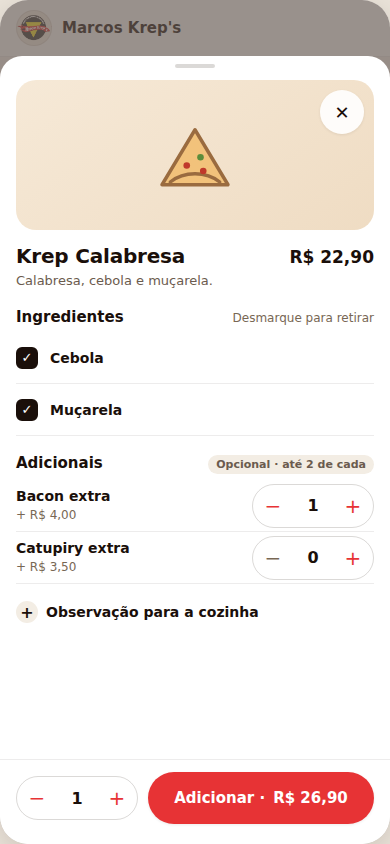
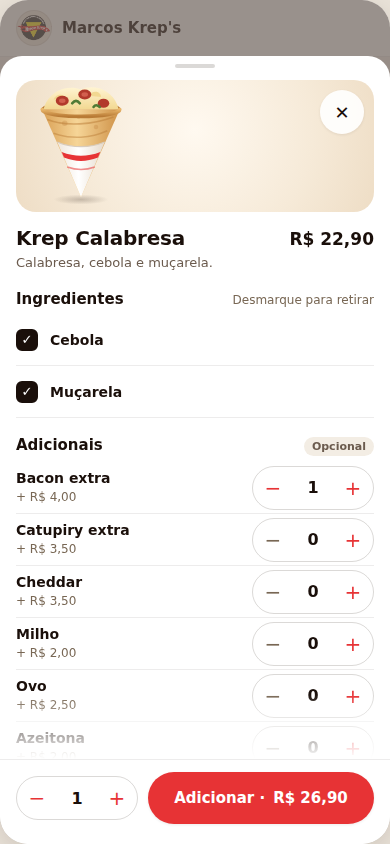
feat(pedir): WhatsApp sem avisos de obrigatoriedade; protótipo com adicionais sem limite e nova ilustração do krep (#235)

diff --git a/docs/evidence/issue-235/fase0/proposta.html b/docs/evidence/issue-235/fase0/proposta.html
@@ -70,8 +70,8 @@ p.doc{color:var(--text-secondary);font-size:13px;margin-bottom:24px;max-width:90
 .item .pr{margin-top:8px;font-size:15px}
 .thumb{width:104px;height:104px;border-radius:var(--r-md);flex:none;position:relative;background:var(--bg-subtle);display:grid;place-items:center;overflow:visible}
 .thumb img{width:100%;height:100%;object-fit:contain;border-radius:var(--r-md)}
-.fallback{background:linear-gradient(145deg,#F6E9D7,#EFDCC3)}
-.fallback svg{width:54px;height:54px;margin-top:10px}
+.fallback{background:radial-gradient(circle at 50% 38%,#FFF9F0 0%,#F6EAD8 60%,#EEDDC5 100%)}
+.fallback svg{position:absolute;left:-10px;top:-12px;width:124px;height:124px}
 .fallback small{position:absolute;top:8px;left:0;right:0;text-align:center;font-size:10px;font-weight:700;letter-spacing:.06em;text-transform:uppercase;color:#9A6B3F}
 .add{position:absolute;right:-6px;bottom:-6px;width:var(--tap);height:var(--tap);border-radius:50%;background:var(--bg-surface);border:1px solid var(--border-strong);box-shadow:var(--shadow-md);display:grid;place-items:center;color:var(--brand);font-size:24px;font-weight:600;line-height:1}
 .qtybadge{position:absolute;right:-6px;bottom:-6px;height:var(--tap);min-width:var(--tap);padding:0 12px;border-radius:var(--r-full);background:var(--brand);color:#fff;display:grid;place-items:center;font-weight:700;font-size:14px;box-shadow:var(--shadow-md)}
@@ -83,10 +83,10 @@ p.doc{color:var(--text-secondary);font-size:13px;margin-bottom:24px;max-width:90
 .dim{position:absolute;inset:0;background:rgba(30,16,8,.45)}
 .sheet{position:absolute;left:0;right:0;bottom:0;top:56px;background:var(--bg-surface);border-radius:22px 22px 0 0;display:flex;flex-direction:column;overflow:hidden}
 .grab{width:40px;height:4px;border-radius:4px;background:var(--border-strong);margin:8px auto 0}
-.hero{height:150px;margin:12px 16px 0;border-radius:var(--r-lg);display:grid;place-items:center;position:relative}
-.hero svg{width:88px;height:88px}
+.hero{height:132px;margin:12px 16px 0;border-radius:var(--r-lg);display:grid;place-items:center;position:relative}
+.hero svg{width:150px;height:150px;margin-top:-6px}
 .close{position:absolute;right:10px;top:10px;width:var(--tap);height:var(--tap);border-radius:50%;background:rgba(255,255,255,.9);display:grid;place-items:center;font-size:18px;box-shadow:var(--shadow-sm)}
-.sheet .body{padding:14px 16px;flex:1;overflow:hidden}
+.sheet .body{padding:14px 16px;flex:1;overflow:hidden;-webkit-mask-image:linear-gradient(#000 88%,transparent);mask-image:linear-gradient(#000 88%,transparent)}
 .grp{margin-top:18px}
 .grp-h{display:flex;justify-content:space-between;align-items:baseline;margin-bottom:6px}
 .grp-h b{font-size:15px}
@@ -174,9 +174,48 @@ p.doc{color:var(--text-secondary);font-size:13px;margin-bottom:24px;max-width:90
 <h1 class="doc">#235 · Proposta visual — cardápio e checkout público (Fase 0)</h1>
 <p class="doc">Protótipo ilustrativo para aprovação. Não é a página publicada nem código do produto. Dados sintéticos; kreps sem foto usam o fallback desenhado; bebidas usam as artes existentes do app. Valores, horários e status são exemplos — na implementação, vêm sempre do servidor e da configuração da filial.</p>
 
-<svg width="0" height="0" style="position:absolute">
-  <symbol id="crepe" viewBox="0 0 64 64"><path d="M8 50 L32 10 L56 50 Z" fill="#F2C27B" stroke="#9A6B3F" stroke-width="2.5" stroke-linejoin="round"/><path d="M14 48 C24 40 40 40 50 48" fill="none" stroke="#9A6B3F" stroke-width="2.5" stroke-linecap="round"/><circle cx="26" cy="36" r="2.4" fill="#C0392B"/><circle cx="36" cy="30" r="2.4" fill="#5B8C3A"/><circle cx="38" cy="40" r="2.4" fill="#C0392B"/></symbol>
-  <symbol id="crepe-sweet" viewBox="0 0 64 64"><path d="M8 50 L32 10 L56 50 Z" fill="#F2C27B" stroke="#9A6B3F" stroke-width="2.5" stroke-linejoin="round"/><path d="M14 48 C24 40 40 40 50 48" fill="none" stroke="#6B3A1E" stroke-width="3" stroke-linecap="round"/><path d="M22 38 C28 32 36 32 42 38" fill="none" stroke="#6B3A1E" stroke-width="3" stroke-linecap="round"/><circle cx="32" cy="27" r="3" fill="#E73335"/></symbol>
+<svg width="0" height="0" style="position:absolute" aria-hidden="true">
+  <defs>
+    <linearGradient id="g-crepe" x1="0" y1="0" x2="1" y2="0"><stop offset="0" stop-color="#D9A055"/><stop offset=".45" stop-color="#F6D597"/><stop offset="1" stop-color="#CE9147"/></linearGradient>
+    <linearGradient id="g-rim" x1="0" y1="0" x2="0" y2="1"><stop offset="0" stop-color="#E9B66A"/><stop offset="1" stop-color="#B97B36"/></linearGradient>
+    <linearGradient id="g-paper" x1="0" y1="0" x2="1" y2="0"><stop offset="0" stop-color="#EFE6DA"/><stop offset=".45" stop-color="#FFFFFF"/><stop offset="1" stop-color="#E6DACB"/></linearGradient>
+    <linearGradient id="g-choc" x1="0" y1="0" x2="0" y2="1"><stop offset="0" stop-color="#6A3418"/><stop offset="1" stop-color="#3B1A0B"/></linearGradient>
+    <linearGradient id="g-cheese" x1="0" y1="0" x2="0" y2="1"><stop offset="0" stop-color="#FFF4D2"/><stop offset="1" stop-color="#F2D891"/></linearGradient>
+    <radialGradient id="g-shadow" cx=".5" cy=".5" r=".5"><stop offset="0" stop-color="#1E1008" stop-opacity=".22"/><stop offset="1" stop-color="#1E1008" stop-opacity="0"/></radialGradient>
+  </defs>
+  <symbol id="cone" viewBox="0 0 120 120">
+    <ellipse cx="60" cy="110" rx="22" ry="4" fill="url(#g-shadow)"/>
+    <path d="M29 38 L60 108 L91 38 Z" fill="url(#g-crepe)"/>
+    <path d="M33 46 C48 52 70 50 86 44" fill="none" stroke="#B97B36" stroke-width="1.3" opacity=".5"/>
+    <path d="M38 57 C52 62 68 61 81 55" fill="none" stroke="#B97B36" stroke-width="1.2" opacity=".45"/>
+    <circle cx="47" cy="49" r="2.2" fill="#B97B36" opacity=".28"/><circle cx="72" cy="52" r="1.8" fill="#B97B36" opacity=".28"/><circle cx="58" cy="44" r="1.5" fill="#B97B36" opacity=".25"/>
+    <path d="M41 64 L60 108 L79 64 C67 69 53 69 41 64 Z" fill="url(#g-paper)"/>
+    <path d="M44.5 72 C55 76 65 76 75.5 72 L73.6 76.4 C64 80 56 80 46.4 76.4 Z" fill="#E73335"/>
+    <path d="M49 84 C56 86.5 64 86.5 71 84" fill="none" stroke="#E73335" stroke-width="1.2" opacity=".55"/>
+    <path d="M41 64 C53 69 67 69 79 64" fill="none" stroke="#D8CBBB" stroke-width="1"/>
+  </symbol>
+  <symbol id="crepe" viewBox="0 0 120 120">
+    <path d="M29 38 A31 5.5 0 0 1 91 38" fill="#C98A40" stroke="#B97B36" stroke-width="2"/>
+    <path d="M30 38 C34 22 50 18 60 22 C70 17 87 22 90 38 Z" fill="url(#g-cheese)"/>
+    <path d="M38 30 c2-5 9-5 10 0" fill="#F2D891"/><path d="M66 27 c3-5 10-4 10 1" fill="#F2D891"/>
+    <ellipse cx="45" cy="31" rx="5.2" ry="4" fill="#B23A2B"/><ellipse cx="45" cy="31" rx="2.6" ry="1.8" fill="#D2604E"/>
+    <ellipse cx="63" cy="26" rx="5.2" ry="4" fill="#B23A2B"/><ellipse cx="63" cy="26" rx="2.6" ry="1.8" fill="#D2604E"/>
+    <ellipse cx="78" cy="33" rx="4.6" ry="3.6" fill="#B23A2B"/>
+    <path d="M53 33 q3-4 6 0" stroke="#4F7A35" stroke-width="2.2" fill="none" stroke-linecap="round"/><path d="M70 36 q2-3 5 0" stroke="#4F7A35" stroke-width="2" fill="none" stroke-linecap="round"/>
+    <use href="#cone"/>
+    <path d="M29 38 A31 5.5 0 0 0 91 38" fill="none" stroke="url(#g-rim)" stroke-width="3" stroke-linecap="round"/>
+  </symbol>
+  <symbol id="crepe-sweet" viewBox="0 0 120 120">
+    <path d="M29 38 A31 5.5 0 0 1 91 38" fill="#C98A40" stroke="#B97B36" stroke-width="2"/>
+    <path d="M30 38 C33 24 47 19 60 23 C73 18 88 24 90 38 Z" fill="url(#g-choc)"/>
+    <g transform="translate(48 20) rotate(-18)"><path d="M0 9 C-7 3 -7 -5 0 -5 C7 -5 7 3 0 9 Z" fill="#DC2F3A"/><path d="M-4 -5 L-1 -8 L0 -5 L1 -8 L4 -5 Z" fill="#4F7A35"/><circle cx="-2.5" cy="-1" r=".7" fill="#FFE08A"/><circle cx="2" cy="0" r=".7" fill="#FFE08A"/><circle cx="-.5" cy="3.5" r=".7" fill="#FFE08A"/><circle cx="2.5" cy="-3" r=".6" fill="#FFE08A"/></g>
+    <g transform="translate(70 20) rotate(16)"><path d="M0 9 C-7 3 -7 -5 0 -5 C7 -5 7 3 0 9 Z" fill="#DC2F3A"/><path d="M-4 -5 L-1 -8 L0 -5 L1 -8 L4 -5 Z" fill="#4F7A35"/><circle cx="-2.5" cy="-1" r=".7" fill="#FFE08A"/><circle cx="2" cy="0" r=".7" fill="#FFE08A"/><circle cx="-.5" cy="3.5" r=".7" fill="#FFE08A"/><circle cx="2.5" cy="-3" r=".6" fill="#FFE08A"/></g>
+    <circle cx="55" cy="30" r="1.1" fill="#FFF"/><circle cx="74" cy="31" r="1.1" fill="#FFF"/><circle cx="40" cy="33" r="1.1" fill="#FFF"/><circle cx="62" cy="34" r="1.1" fill="#FFF"/>
+    <use href="#cone"/>
+    <path d="M33 42 C36 50 40 44 43 51 C46 57 49 47 52 52" fill="none" stroke="#3B1A0B" stroke-width="2.6" stroke-linecap="round"/>
+    <path d="M74 43 C77 51 81 45 84 50" fill="none" stroke="#3B1A0B" stroke-width="2.4" stroke-linecap="round"/>
+    <path d="M29 38 A31 5.5 0 0 0 91 38" fill="none" stroke="url(#g-rim)" stroke-width="3" stroke-linecap="round"/>
+  </symbol>
 </svg>
 
 <!-- ───────────── MOBILE ───────────── -->
@@ -199,9 +238,9 @@ p.doc{color:var(--text-secondary);font-size:13px;margin-bottom:24px;max-width:90
     <div class="sec">
       <div class="t-h2">Kreps salgados</div>
       <div class="list">
-        <div class="item"><div class="txt"><div class="nm">Krep Frango com Catupiry</div><div class="ds">Frango desfiado, catupiry e muçarela.</div><div class="pr price">R$ 24,90</div></div><div class="thumb fallback"><svg><use href="#crepe"/></svg><small>Salgado</small><span class="add" aria-label="Adicionar Krep Frango com Catupiry">+</span></div></div>
-        <div class="item"><div class="txt"><div class="nm">Krep Calabresa</div><div class="ds">Calabresa, cebola e muçarela. Personalize ingredientes e adicionais.</div><div class="pr price">R$ 22,90</div></div><div class="thumb fallback"><svg><use href="#crepe"/></svg><small>Salgado</small><span class="qtybadge" aria-label="1 no pedido">1</span></div></div>
-        <div class="item"><div class="txt"><div class="nm">Krep Quatro Queijos com nome bem comprido para testar quebra</div><div class="ds">Muçarela, provolone, parmesão e catupiry.</div><div class="pr price">R$ 27,50</div></div><div class="thumb fallback"><svg><use href="#crepe"/></svg><small>Salgado</small><span class="add">+</span></div></div>
+        <div class="item"><div class="txt"><div class="nm">Krep Frango com Catupiry</div><div class="ds">Frango desfiado, catupiry e muçarela.</div><div class="pr price">R$ 24,90</div></div><div class="thumb fallback"><svg><use href="#crepe"/></svg><span class="add" aria-label="Adicionar Krep Frango com Catupiry">+</span></div></div>
+        <div class="item"><div class="txt"><div class="nm">Krep Calabresa</div><div class="ds">Calabresa, cebola e muçarela. Personalize ingredientes e adicionais.</div><div class="pr price">R$ 22,90</div></div><div class="thumb fallback"><svg><use href="#crepe"/></svg><span class="qtybadge" aria-label="1 no pedido">1</span></div></div>
+        <div class="item"><div class="txt"><div class="nm">Krep Quatro Queijos com nome bem comprido para testar quebra</div><div class="ds">Muçarela, provolone, parmesão e catupiry.</div><div class="pr price">R$ 27,50</div></div><div class="thumb fallback"><svg><use href="#crepe"/></svg><span class="add">+</span></div></div>
       </div>
     </div>
     <div class="sec">
@@ -230,9 +269,14 @@ p.doc{color:var(--text-secondary);font-size:13px;margin-bottom:24px;max-width:90
         <div class="opt"><span class="chk on">✓</span><div class="l"><b>Cebola</b></div></div>
         <div class="opt"><span class="chk on">✓</span><div class="l"><b>Muçarela</b></div></div>
       </div>
-      <div class="grp"><div class="grp-h"><b>Adicionais</b><span class="pill">Opcional · até 2 de cada</span></div>
+      <div class="grp"><div class="grp-h"><b>Adicionais</b><span class="pill">Opcional</span></div>
         <div class="opt"><div class="l"><b>Bacon extra</b><span class="t-xs">+ R$ 4,00</span></div><div class="step"><i>−</i><span>1</span><i>+</i></div></div>
         <div class="opt"><div class="l"><b>Catupiry extra</b><span class="t-xs">+ R$ 3,50</span></div><div class="step"><i class="off">−</i><span>0</span><i>+</i></div></div>
+        <div class="opt"><div class="l"><b>Cheddar</b><span class="t-xs">+ R$ 3,50</span></div><div class="step"><i class="off">−</i><span>0</span><i>+</i></div></div>
+        <div class="opt"><div class="l"><b>Milho</b><span class="t-xs">+ R$ 2,00</span></div><div class="step"><i class="off">−</i><span>0</span><i>+</i></div></div>
+        <div class="opt"><div class="l"><b>Ovo</b><span class="t-xs">+ R$ 2,50</span></div><div class="step"><i class="off">−</i><span>0</span><i>+</i></div></div>
+        <div class="opt"><div class="l"><b>Azeitona</b><span class="t-xs">+ R$ 2,00</span></div><div class="step"><i class="off">−</i><span>0</span><i>+</i></div></div>
+        <div class="opt"><div class="l"><b>Tomate</b><span class="t-xs">+ R$ 2,00</span></div><div class="step"><i class="off">−</i><span>0</span><i>+</i></div></div>
       </div>
       <div class="more">Observação para a cozinha</div>
     </div>
@@ -277,9 +321,8 @@ p.doc{color:var(--text-secondary);font-size:13px;margin-bottom:24px;max-width:90
     <div class="card">
       <h3>Quem vai receber</h3>
       <div class="field"><label>Nome</label><div>Ana Fixture</div></div>
-      <div class="field focus"><label>WhatsApp com DDD (obrigatório)</label><div class="num">(61) 99999-0000</div></div>
-      <p class="help">Para falarmos com você sobre a entrega. Não precisa criar conta.</p>
-      <div class="ok">✓ Dados salvos encontrados <a>Não é você?</a></div>
+      <div class="field focus"><label>WhatsApp com DDD</label><div class="num">(61) 99999-0000</div></div>
+            <div class="ok">✓ Dados salvos encontrados <a>Não é você?</a></div>
       <div class="hint">Nome salvo: <b>Ana F.</b><span class="use">Usar</span></div>
       <div class="more">Adicionar e-mail (opcional)</div>
     </div>
@@ -363,13 +406,13 @@ p.doc{color:var(--text-secondary);font-size:13px;margin-bottom:24px;max-width:90
       <div class="d-tabs"><span class="tab on">Kreps salgados</span><span class="tab">Kreps doces</span><span class="tab">Bebidas</span></div>
       <div class="t-h2" style="margin-top:14px;font-size:20px">Kreps salgados</div>
       <div class="d-grid">
-        <div class="item"><div class="txt"><div class="nm">Krep Frango com Catupiry</div><div class="ds">Frango desfiado, catupiry e muçarela.</div><div class="pr price">R$ 24,90</div></div><div class="thumb fallback"><svg><use href="#crepe"/></svg><small>Salgado</small><span class="add">+</span></div></div>
-        <div class="item"><div class="txt"><div class="nm">Krep Calabresa</div><div class="ds">Calabresa, cebola e muçarela.</div><div class="pr price">R$ 22,90</div></div><div class="thumb fallback"><svg><use href="#crepe"/></svg><small>Salgado</small><span class="qtybadge">1</span></div></div>
-        <div class="item"><div class="txt"><div class="nm">Krep Quatro Queijos com nome bem comprido para testar quebra</div><div class="ds">Muçarela, provolone, parmesão e catupiry.</div><div class="pr price">R$ 27,50</div></div><div class="thumb fallback"><svg><use href="#crepe"/></svg><small>Salgado</small><span class="add">+</span></div></div>
+        <div class="item"><div class="txt"><div class="nm">Krep Frango com Catupiry</div><div class="ds">Frango desfiado, catupiry e muçarela.</div><div class="pr price">R$ 24,90</div></div><div class="thumb fallback"><svg><use href="#crepe"/></svg><span class="add">+</span></div></div>
+        <div class="item"><div class="txt"><div class="nm">Krep Calabresa</div><div class="ds">Calabresa, cebola e muçarela.</div><div class="pr price">R$ 22,90</div></div><div class="thumb fallback"><svg><use href="#crepe"/></svg><span class="qtybadge">1</span></div></div>
+        <div class="item"><div class="txt"><div class="nm">Krep Quatro Queijos com nome bem comprido para testar quebra</div><div class="ds">Muçarela, provolone, parmesão e catupiry.</div><div class="pr price">R$ 27,50</div></div><div class="thumb fallback"><svg><use href="#crepe"/></svg><span class="add">+</span></div></div>
       </div>
       <div class="t-h2" style="margin-top:22px;font-size:20px">Kreps doces</div>
       <div class="d-grid">
-        <div class="item"><div class="txt"><div class="nm">Krep Nutella com Morango</div><div class="ds">Creme de avelã e morangos frescos.</div><div class="pr price">R$ 26,90</div></div><div class="thumb fallback"><svg><use href="#crepe-sweet"/></svg><small>Doce</small><span class="add">+</span></div></div>
+        <div class="item"><div class="txt"><div class="nm">Krep Nutella com Morango</div><div class="ds">Creme de avelã e morangos frescos.</div><div class="pr price">R$ 26,90</div></div><div class="thumb fallback"><svg><use href="#crepe-sweet"/></svg><span class="add">+</span></div></div>
       </div>
       <div class="t-h2" style="margin-top:22px;font-size:20px">Bebidas</div>
       <div class="d-grid">
@@ -401,9 +444,8 @@ p.doc{color:var(--text-secondary);font-size:13px;margin-bottom:24px;max-width:90
       <a class="link">‹ Voltar para a sacola</a>
       <div class="card" style="margin:8px 0 0">
         <h3>Quem vai retirar</h3>
-        <div class="grid2"><div class="field"><label>Nome (opcional)</label><div>Ana Fixture</div></div><div class="field"><label>WhatsApp com DDD (opcional)</label><div class="num">(61) 99999-0000</div></div></div>
-        <p class="help">Com o WhatsApp, enviamos as atualizações do pedido e recuperamos seus dados salvos. Não precisa criar conta.</p>
-        <div class="ok">✓ Dados salvos encontrados <a>Não é você?</a></div>
+        <div class="grid2"><div class="field"><label>Nome (opcional)</label><div>Ana Fixture</div></div><div class="field"><label>WhatsApp com DDD</label><div class="num">(61) 99999-0000</div></div></div>
+                <div class="ok">✓ Dados salvos encontrados <a>Não é você?</a></div>
         <div class="more">Adicionar e-mail (opcional)</div>
       </div>
       <div class="card" style="margin:12px 0 0"><div class="mrow"><div class="l"><b>Para levar · Feira</b><span class="t-xs">Retirada no balcão da unidade · Embalagem para viagem R$ 2,00</span></div><a class="link">Alterar</a></div></div>

diff --git a/src/app/pedir/page.tsx b/src/app/pedir/page.tsx
@@ -2285,7 +2285,9 @@ function PedirBranchPage({ branchSlug }: { branchSlug: string }) {
             />
 
             <FloatingInput
-              label={orderType === "ENTREGA" ? "WhatsApp com DDD (obrigatório)" : "WhatsApp com DDD (opcional)"}
+              // Sem aviso de obrigatoriedade no campo (pedido do operador, #235). Em
+              // ENTREGA o envio continua bloqueado com mensagem se faltar o número.
+              label="WhatsApp com DDD"
               name="tel"
               autoComplete="tel"
               value={customerPhone}
@@ -2296,9 +2298,6 @@ function PedirBranchPage({ branchSlug }: { branchSlug: string }) {
               inputMode="tel"
               // Número pela metade avisa aqui, e não só quando o pedido é enviado.
               error={customerPhoneWarning}
-              help={orderType === "ENTREGA"
-                ? "Obrigatório na entrega, para falarmos com você sobre o pedido. Não precisa criar conta."
-                : "Se informar, enviamos as atualizações do pedido e recuperamos seus dados salvos. Não precisa criar conta."}
             />
 
             {isProfileChecking && (

diff --git a/docs/archive/studies/proposta-pedir-issue-235.md b/docs/archive/studies/proposta-pedir-issue-235.md
@@ -57,7 +57,7 @@ P0 = confiança/dado incorreto; P1 = conversão/clareza/acessibilidade; P2 = aca
 | 5 | P1 | Modalidade escolhida duas vezes (vitrine e dados) | `page.tsx:1771`, `:2355` | Escolha única na vitrine; nos dados vira resumo “Para levar · Feira [Alterar]” |
 | 6 | P1 | CTA “Montar” igual para kreps e bebidas; botões vermelhos grandes em todo card competem com o preço | `page.tsx:1942` | Botão “+” 44 px na foto (`aria-label="Adicionar {produto}"`); vermelho reservado ao CTA principal |
 | 7 | P1 | Fallback sem foto usa ícone de chama (sugere “picante”) e a folha do produto abre com faixa escura de ~300 px sem informação | `page.tsx:1912`, `:2957` | Fallback desenhado (ilustração de krep + “Salgado/Doce”), hero de 150 px |
-| 8 | P1 | Adicionais escondidos atrás de “Ver” em caixa tracejada com copy de marketing (“Quer deixar ainda melhor?”, “turbinar”) | `page.tsx:3047-3064` | Lista visível com preço “+ R$ 4,00” e contador; total atualizado no botão |
+| 8 | P1 | Adicionais escondidos atrás de “Ver” em caixa tracejada com copy de marketing (“Quer deixar ainda melhor?”, “turbinar”) | `page.tsx:3047-3064` | Lista visível com todos os adicionais vinculados ao produto, preço “+ R$ 4,00” e contador sem teto; total atualizado no botão |
 | 9 | P1 | Toast “adicionado ao pedido” cobre o título da revisão; título em card escuro gasta espaço | `page.tsx:2062`, captura `atual-revisao-390` | Toast curto acima da barra da sacola; título simples na barra |
 | 10 | P2 | Nome do item espremido entre preço e dois ícones na revisão (“Krep / Calabresa”) | captura `atual-revisao-390` | Linha: nome + modificadores à esquerda; preço e contador à direita; “Editar” como link |
 | 11 | P2 | Textos sem acento: “Cardapio” no cabeçalho; “Cartao de credito, debito” | `page.tsx:1674`, `_components/MercadoPagoBrick.tsx:158` | Corrigir (pode entrar já na Fase 1) |
@@ -135,7 +135,9 @@ vermelho `#E73335`, bege `#FAF5EE`/`#F3EDE4`, marrom `#1E1008`, Plus Jakarta San
 | Movimento | 150–200 ms, `ease-out`; desligado em `prefers-reduced-motion` | folha, toast, contador |
 
 Sem selos, depoimentos, “mais pedidos”, avaliações, prazos ou descontos inventados. Fotos reais
-quando houver `image_url`; fallback desenhado quando não houver.
+quando houver `image_url`; quando não houver, ilustração vetorial do krep no cone com luva de
+papel nas cores da marca (versões salgada e doce), sobre fundo bege radial. É uma ilustração,
+não uma foto: não representa um produto específico.
 
 ## 7. Telas propostas
 
@@ -154,6 +156,18 @@ Comparação direta: atual [cardápio 390](../../evidence/issue-235/fase0/atual-
 [revisão](../../evidence/issue-235/fase0/atual-revisao-390.png),
 [dados](../../evidence/issue-235/fase0/atual-dados-390.png),
 [cardápio 1440](../../evidence/issue-235/fase0/atual-menu-1440.png).
+
+Ajustes pedidos pelo operador nesta rodada (29/10):
+
+- **Adicionais sem limite**: a personalização mostra todos os adicionais vinculados ao produto
+  e o contador não tem teto. O código atual já funciona assim (`page.tsx`, contador de
+  adicionais sem máximo; `create-public-order` não limita quantidade); o “até 2 de cada” e as
+  duas opções eram só do protótipo. Quais adicionais aparecem em cada krep depende do cadastro
+  do cardápio.
+- **WhatsApp sem avisos de obrigatoriedade**: o campo mostra só “WhatsApp com DDD”, sem
+  “(obrigatório)/(opcional)” nem texto de ajuda. Já aplicado no código (PR #239). Em ENTREGA,
+  continuar sem número válido ainda mostra o erro acima do botão e não cria o pedido.
+- **Ilustração do krep** redesenhada (cone com luva de papel), no lugar do triângulo simples.
 
 Os textos de status da confirmação são exemplos; na implementação vêm dos status reais
 (`order-tracking-helpers.ts`). Valores e horários vêm sempre do servidor e da filial.

diff --git a/docs/product/delivery.md b/docs/product/delivery.md
@@ -20,7 +20,10 @@ Na etapa “Seus dados” de `/pedir` (#235), a ordem é: **Nome** (opcional),
 **WhatsApp com DDD** (obrigatório só em ENTREGA), **E-mail** (opcional, usado no
 pagamento online), modalidade, endereço (somente ENTREGA: CEP → rua/bairro
 derivados do CEP → número do imóvel → complemento → referência), observações e
-consentimentos. As obrigações de preenchimento não mudaram.
+consentimentos. As obrigações de preenchimento não mudaram. O campo mostra só
+“WhatsApp com DDD”, sem aviso de obrigatório/opcional (decisão do operador); em ENTREGA,
+continuar sem número válido mostra “Informe um WhatsApp válido com DDD para pedidos de
+entrega.” acima do botão e o pedido não é criado.
 
 A busca de perfil salvo continua disparando pelo WhatsApp, mesmo com o nome acima:
 nome digitado à mão nunca é sobrescrito; o nome salvo aparece como sugestão

diff --git a/docs/evidence/issue-235/README.md b/docs/evidence/issue-235/README.md
@@ -19,6 +19,9 @@ issue. Não comprova a versão publicada nem a fonte web real.
 | Endereço, 390 px (viewport) | [antes](antes-endereco-390.png) | [depois](depois-endereco-390.png) |
 | ENTREGA, 1440 px | [antes](antes-dados-entrega-1440.png) | [depois](depois-dados-entrega-1440.png) |
 
+Depois destas capturas, o rótulo do WhatsApp perdeu “(obrigatório)/(opcional)” e o texto de
+ajuda, a pedido do operador; a validação no envio não mudou.
+
 Na página inteira, a barra fixa do rodapé aparece sobre o endereço; a captura de
 viewport mostra o endereço sem essa sobreposição.
 
